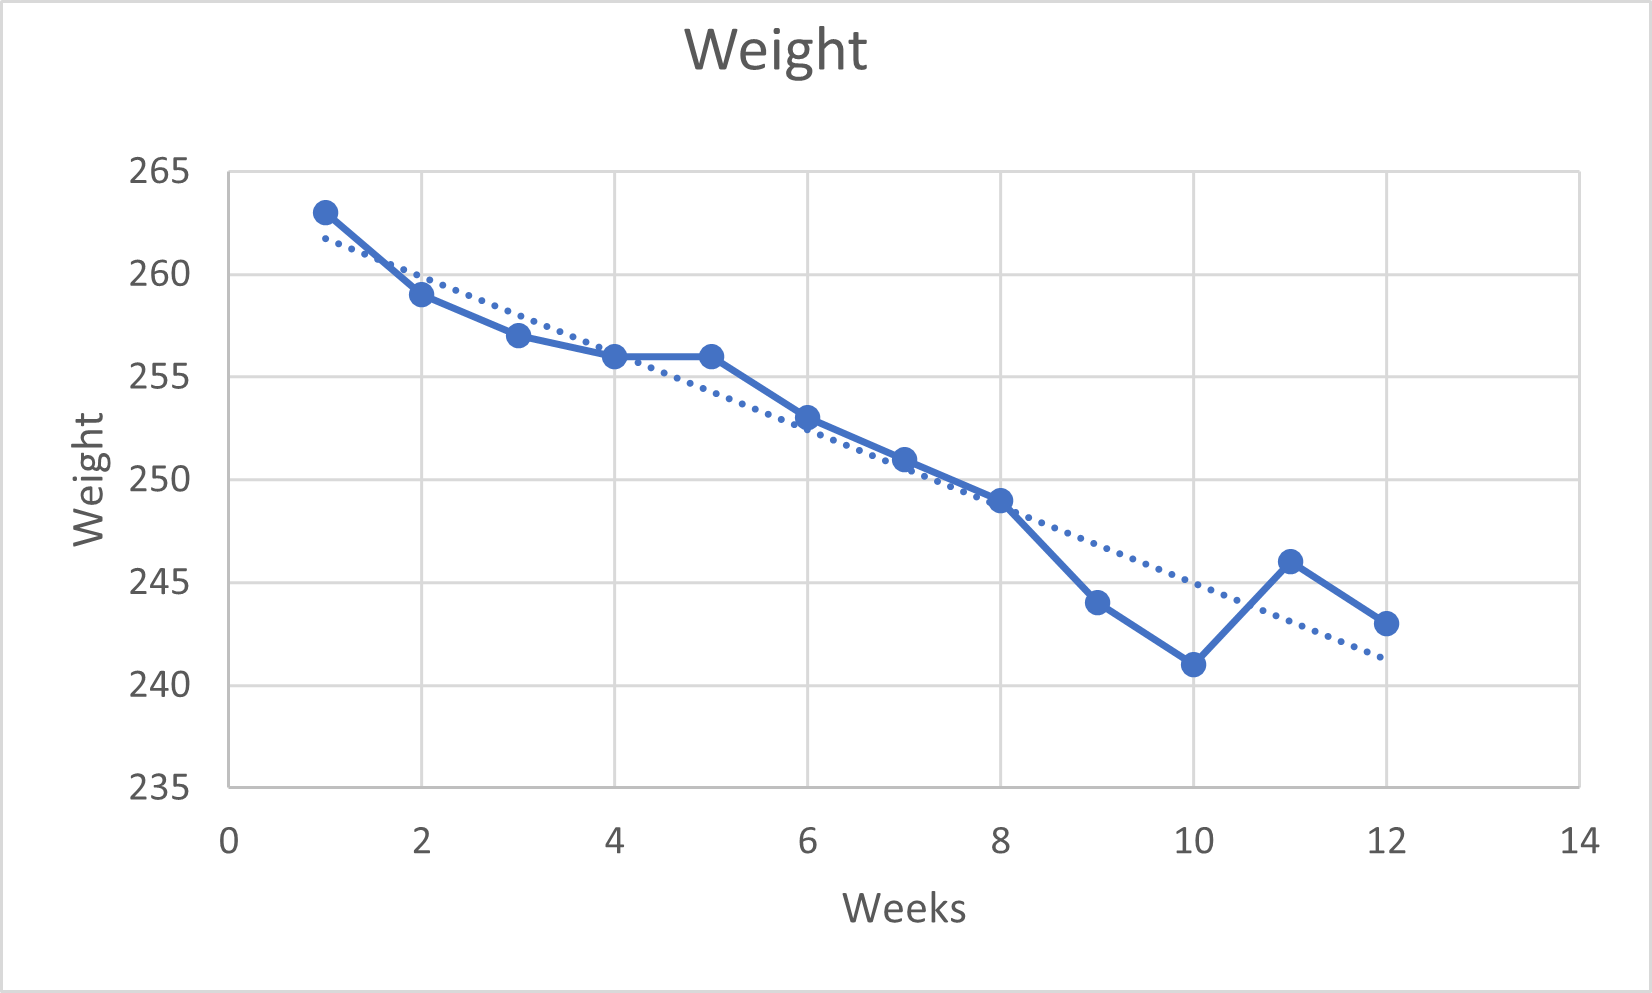
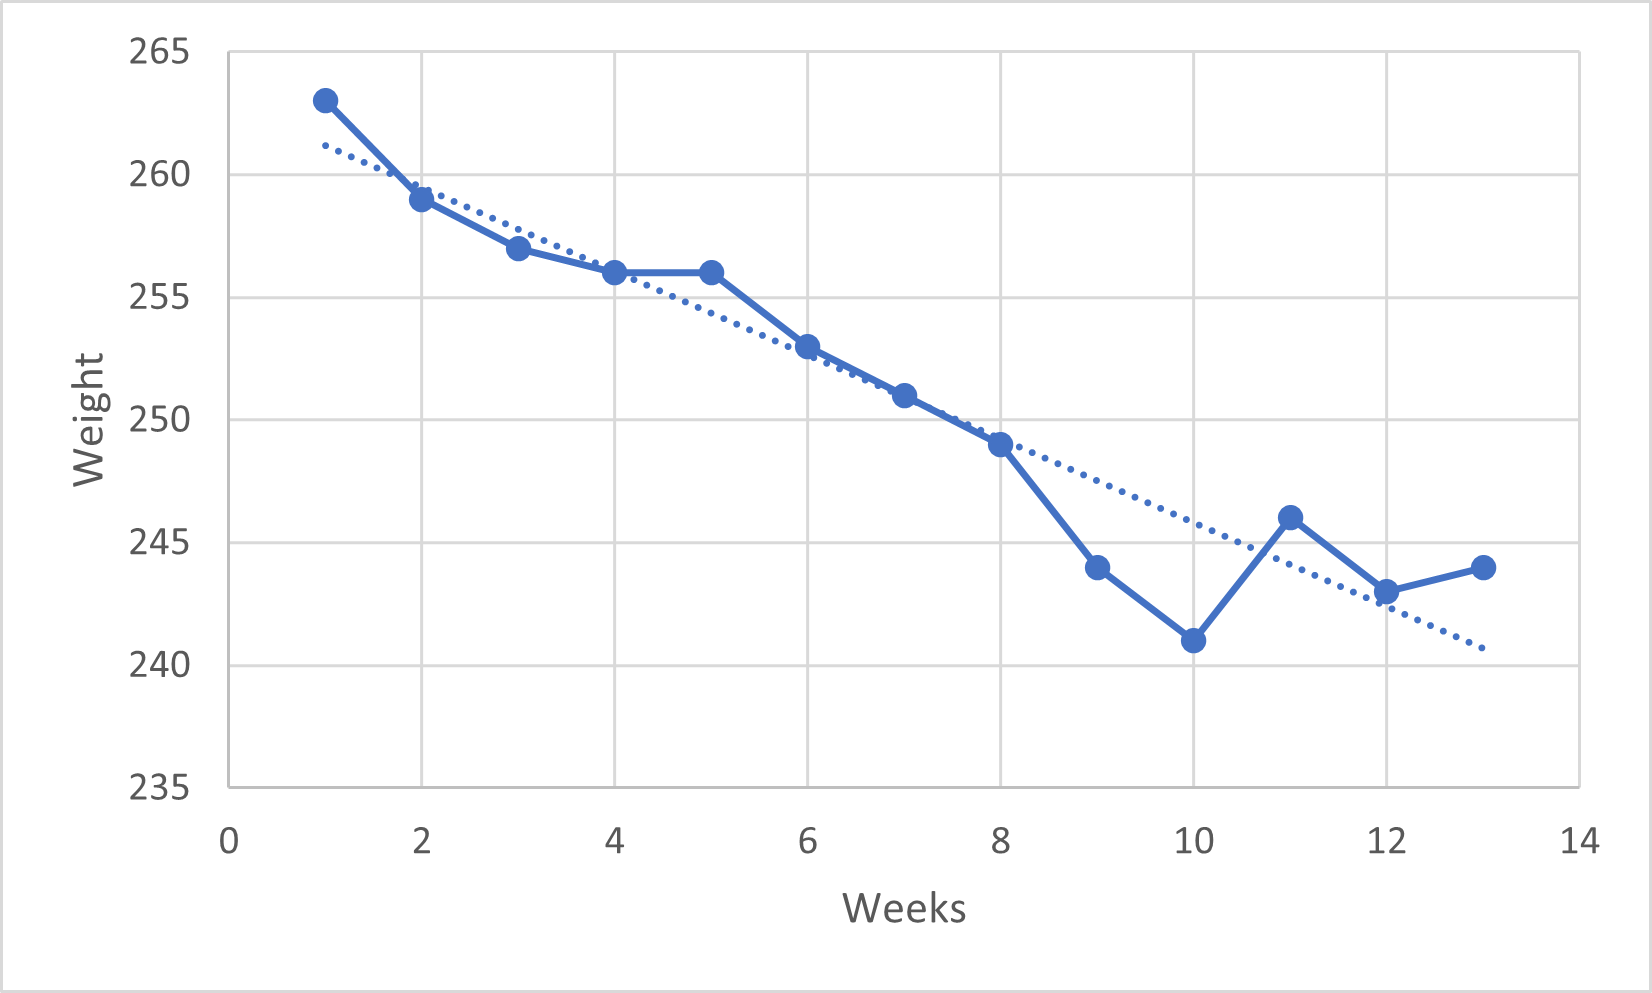
Weekly Update

diff --git a/src/components/Updates/Updates.js b/src/components/Updates/Updates.js
@@ -9,6 +9,48 @@ const Updates = () => {
       <div className="update-intro-container pt2">
         <p className='update-intro pt2 t-medium'>Once a week I will post a summary of my week's wins and losses. I am sure there will be ups and downs and hopefully sharing them will help keep things in context for me and really show everyone else what the journey was actually like!</p>
       </div>
+
+      <div className='update-card-container m2'>
+
+    <div className='update-banner'>
+     <p className='t-medium bold'>Week 13 Update</p>
+     <br /> 
+
+    <p className='t-medium bold pb1'>Dec 12th 2022</p>
+</div>
+
+<hr />
+
+
+    <div className="comments pt1">
+      <p className='t-medium bold'>They Better Be the Slow Kind!</p>
+      <br />
+      <p>So this week I started doing some light treadmill cardio. My early observation is that when the zombies come, if they are the fast kind, I am in serious trouble!</p>
+      <br />
+      <p>One of my goals is that after the 1 year mark I will be able to run 5km in 30min. In my first seesion a week ago I managed a distance of 2.19kms in 32min. I have a LONG way to go!</p>
+      <br />
+      <p>For the first 3 or 4 weeks I will do 30-45min sessions 3 or 4 times a week. After my body is used to the workouts I will adjust and start pushing towards the goal in earnest.</p>
+<br />
+      <p className='t-medium bold'>If You Code It, They Will Come.</p>
+      <br />
+      <p>Last week I brought this site and my portfolio page online. I am 95% satisfied with both but will continue to tweak and adjust as I get feedback. I now have 3 finsihed projects on the web and it feels great!</p> 
+      <br />
+      <p>The exciting thing that happened this week was how much traffic they have seen. Over time I expect this site to do fairly well and my family social has daily use but I did not expect the number of visits I have seen on my portfolio site. It crossed 250 unique visitors yesterday with almost 400 page views. Not huge numbers I am sure but pretty cool for my first steps into public!</p>
+      <br />
+      <p className='t-medium bold'>Christmas Is Coming...</p>
+      <br />
+      <p>This week I saw a slight weight increase. I can attribute it almost entirely to my first diet snap. A couple of drinks on Friday somehow led to 2 days of eating and drinking WAY too much... Pizza, wings, perrogies, oh my! It was more than a little disappointing stepping on the scale this afternoon but these things are going to happen. It will not be the last slip I am sure. I will go in to this week strong and get the gains (losses) back in no time!</p>
+      <br />
+      <p>This was probably a mild dry run for what Christmas will look like diet wise. With a full house of family here for 3 days there will be no shortage of bad (really good) food and drinks going around. I will try to stay super clean up to the 24th and I am hoping that when I come out the other side I can manage something in the mid 230's. Wish me luck!</p>
+      <br />
+      <p className='t-medium bold'>Do Comic Books Count?</p>
+      <br />
+      <p>Another of my goals that was ambitious. I am starting to feel like 50 books will be a real push. With the amount of coding that I want to be doing to move goal forward (started working on my next site this week) it only leaves so much time for reading. Even if I fall short though, like everything else I am doing, it will certainly be an improvement. Pretty soon my audiobooks will sound like they are on fast forward.</p>
+      <br />
+      <div className='center'>
+      <span className='t-medium bold'>See ya next week!</span>
+</div>
+</div></div>
       
       <div className='update-card-container m2'>
 
